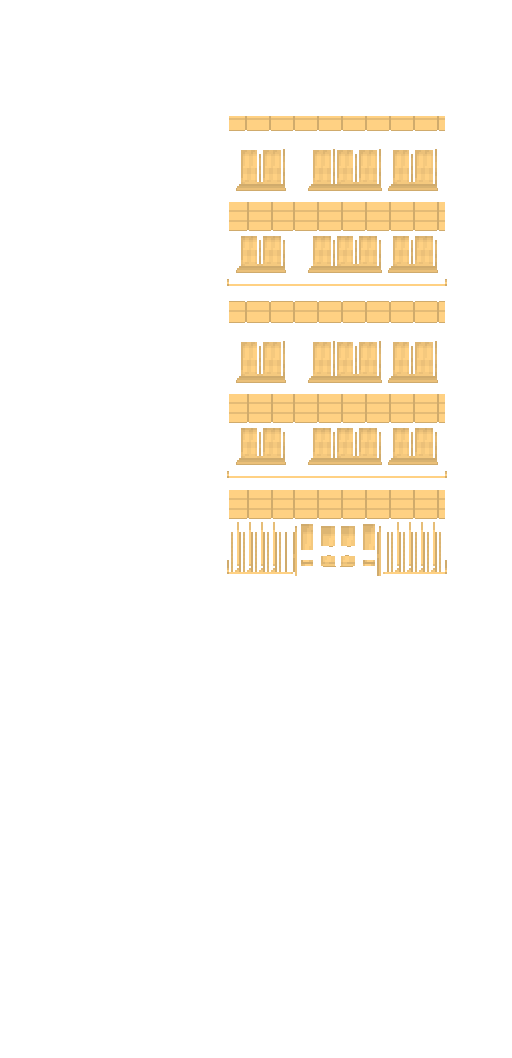
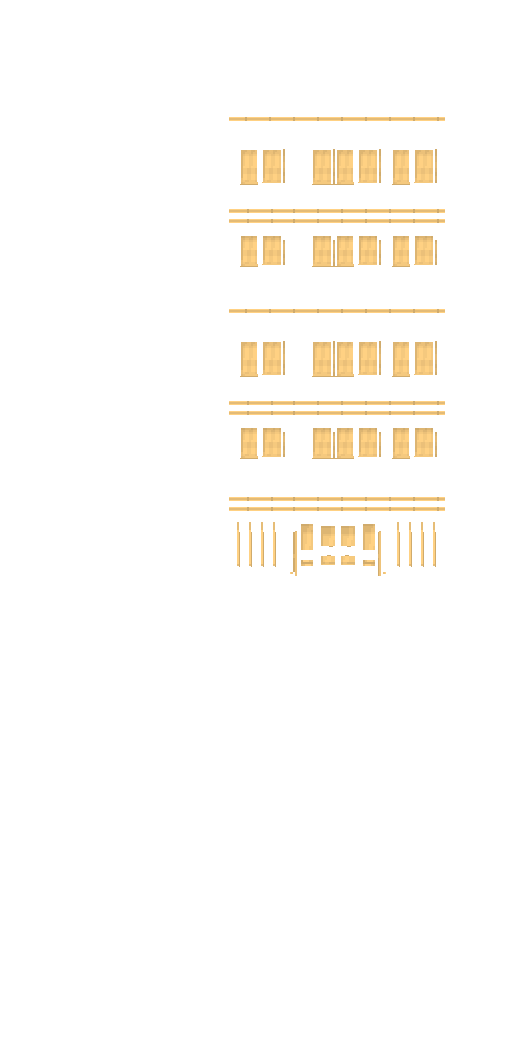
Red-brick corner blocks: Condo_4_38/39/40, Condo_6, Condo_3_46, Condo_8
Condo_4_38/39 as a wing box plus a chamfered corner (a prism for the roof and three
wall parts wearing the art's chamfer columns let down to a level foot); the
octagonal tower as an eight-face prism; Condo_6 as a block and its one-storey annex;
Condo_3_46 and Condo_8 under a plain flat roof. Stricter glass test for night light.

Claude-Session: https://claude.ai/code/session_013NozTEqze7jz3LdAKrPRz7

diff --git a/kotlin-street/tools/buildings_pack.py b/kotlin-street/tools/buildings_pack.py
@@ -110,6 +110,8 @@ def compose_facade(spec, shop=None, rng=None):
     if kit == 'condo12': return compose_columns(spec, shop)
     if kit == 'condo7': return compose_tower(spec, shop)
     if kit == 'office': return compose_office(spec, shop)
+    if kit.startswith('c4_'): return compose_corner(spec, shop)
+    if kit in ('b3_46', 'b8', 'b6'): return compose_block(spec, shop)
     W = int(spec['widthTiles'])
     seed = zlib.crc32(spec['id'].encode()) + int(spec.get('seed', 0))
     r = np.random.default_rng(seed)
@@ -147,7 +149,7 @@ def compose_facade(spec, shop=None, rng=None):
     return finish(spec, shop, r, front, PARAPET, COPING, roof, door, side, wall_c, ledges)
 
 
-def finish(spec, shop, r, front, P, T, roof, door, side, wall_c, ledges=(), extras=()):
+def finish(spec, shop, r, front, P, T, roof, door, side, wall_c, ledges=(), extras=(), lit=True):
     """The model of a box whose front picture is `front` (its first P rows the parapet's front face: the top floor's
     cornice), under a flat roof made of `roof`'s pictures, wearing `side` (the body's side, already without the parapet rows).
     `ledges` are rows of the front that stand 3 px out of the wall; `extras(at, Y, H, PX)` returns more parts (roof props...)."""
@@ -156,7 +158,7 @@ def finish(spec, shop, r, front, P, T, roof, door, side, wall_c, ledges=(), extr
     at = Atlas(512)
     parts, front_par = apt.flat_roof(at, None, 0, PX, Y, H, DEPTH, T, front_face, roof['back_face'],
                                      (roof['back_top'], roof['front_top'], (roof['left'], roof['right'])))
-    b_panes, b_glow = apt.glass_panes(body)
+    b_panes, b_glow = strict_panes(body) if lit else ([], np.zeros_like(body))
     body_r = at.add(body, b_glow)
     side_r = at.add(np.ascontiguousarray(side))
     parts.insert(0, mbox((2, PX - 2), (0, Y), (0, DEPTH), (roof['colour'], wall_c, shade(wall_c, .8)), ft=body_r, fx=0, tt=at.add(np.ascontiguousarray(roof['floor'][:, 2:PX - 2])), st=side_r, panes=b_panes))
@@ -276,13 +278,188 @@ def compose_office(spec, shop=None):
     rows = column_rows(blocks, [4, 5, 6, 7, 8, 9])
     rows[-96:] = rows[96:192]                                         # (the lobby's foot in the floors' wall, not its curtains' brown)
     win = g(f'Window_{st}_Middle_Modular') if st in (1, 2, 3, 4) else g(f'Building_{st}_Window_Modular')
-    wins = [(win, 192 * i + 40 + off, (.5,), apt.glass_panes(win)[0]) for i in range(n) for off in (0, 96)]
+    wins = [(win, 192 * i + 40 + off, (.5,), strict_panes(win)[0]) for i in range(n) for off in (0, 96)]
     side, _ = apt.side_windows(rows, DEPTH, wins, _rng(spec), tuple(int(v) for v in wall_c) + (255,))
     side[:, :8] = side[:, 8:16]; side[:, -8:] = side[:, -16:-8]
     side = side[P:]
     ledges = [(192 * i + 184, 192 * i + 192) for i in range(n)]
     return finish(spec, shop, _rng(spec), front, P, T, roof, (PX // 2 - 30, PX // 2 + 30), side, wall_c, ledges)
 
+
+# ------------------------------------------------------------------------------------------------ item 4: the red-brick corner blocks
+# Condo_4_38/39 (a four-storey block whose corner is a prism: a chamfer forward from the wing, the entrance bay across, a chamfer
+# back to the end), Condo_4_40 (the octagonal tower, only its front three faces drawn), and Condo_6, Condo_3_46, Condo_8 as one
+# or two boxes. The art draws the roof from above in its top rows (one row per pixel of depth, so those rows give the depth), the
+# front's parapet and cornice below them, then the elevation down to its foot. A chamfered face is drawn sheared (its foot falls
+# or rises one row per two columns, 30 rows over the corner: the plan's depth is that many pixels), so each column is taken
+# level by its own step (as the police station's tower) and the face stands as a `wall` between two plan points.
+CORNERS = {
+    # key: (art, wing x span, prism x span, faces (x0, x1, d0, d1), roof rows, elevation top row, wing foot, door, mirrored)
+    'c4_38': dict(art='Condo_4_38', wing=(0, 320), prism=(320, 510), faces=[(320, 384, 0, -30), (384, 446, -30, -30), (446, 510, -30, 0)],
+                  plan=[(320, 0), (384, -30), (446, -30), (510, 0)], roof=208, foot=543, door=(394, 436)),
+    'c4_39': dict(art='Condo_4_39', wing=(192, 512), prism=(2, 192), faces=[(2, 66, 0, -30), (66, 128, -30, -30), (128, 192, -30, 0)],
+                  plan=[(2, 0), (66, -30), (128, -30), (192, 0)], roof=208, foot=543, door=(76, 118)),
+}
+CLEAN = {'c4_38': [40, 56], 'c4_39': [200, 216]}                 # plain brick columns for the walls' rows
+
+
+def _foot(a, x):
+    return int(np.nonzero(a[:, x, 3] == 255)[0].max())
+
+
+def _level(a, x0, x1, top, E, base, clip=30, sign=1):
+    """The columns x0..x1 of a sheared face let down to a level foot: column x starts `step` rows lower (step = its foot's offset)."""
+    cols = []
+    for x in range(x0, x1):
+        s = int(min(max((_foot(a, x) - base) * sign, 0), clip))
+        cols.append(a[top + s * (1 if sign > 0 else -1):top + s * (1 if sign > 0 else -1) + E, x])
+    return np.ascontiguousarray(np.stack(cols, axis=1))
+
+
+def _wall_rows(img, cols):
+    return column_rows(img, cols)
+
+
+def _brick_side(img, cols, depth, wins, rng, wall_c):
+    side, glow = apt.side_windows(_wall_rows(img, cols), depth, wins, rng, tuple(int(v) for v in wall_c) + (255,))
+    side[:, :4] = side[:, 4:8]; side[:, -4:] = side[:, -8:-4]
+    return side, glow
+
+
+def compose_corner(spec, shop=None):
+    from buildings_civA import prism as mprism
+    from buildings_civB import mwall
+    cfg = CORNERS[spec['kit']] if spec['kit'] in CORNERS else None
+    if spec['kit'] == 'c4_40': return compose_octagon(spec, shop)
+    a = kits.piece('gb', cfg['art']); rng = _rng(spec)
+    R = cfg['roof']; foot = cfg['foot']; E = foot - R; W = 512; D = R
+    w0, w1 = cfg['wing']; p0, p1 = cfg['prism']
+    at = Atlas(512)
+    elev = np.ascontiguousarray(a[R:foot, w0:w1].copy())
+    wall_c = tuple(int(v) for v in elev[200, (CLEAN[spec['kit']][0] - w0)][:3])
+    roof_c = tuple(int(v) for v in np.median(a[40:160, p0 + 20:p0 + 90].reshape(-1, 4), axis=0)[:3])
+    # a window of the front for the sides: its picture, frame and awning (x 62..160 of the wing's elevation), one per storey
+    wx = 62 - w0 if spec['kit'] == 'c4_38' else 252 - w0
+    pic = elev[48:122, wx:wx + 98]
+    wins = [(pic, wy, (.3, .7), strict_panes(pic)[0]) for wy in (48, 138, 228)]
+    side, side_g = _brick_side(elev, [c - w0 for c in CLEAN[spec['kit']]], D, wins, rng, wall_c)
+    side_r = at.add(np.ascontiguousarray(side), side_g)
+    panes, glow = strict_panes(elev)
+    wing = mbox((w0 + (2 if w0 == 0 else 0), w1 - (0 if w0 == 0 else 2)) if False else (w0, w1), (0, E), (0, D), (roof_c, wall_c, shade(wall_c, .8)), ft=at.add(elev, glow), fx=w0,
+                tt=at.add(np.ascontiguousarray(a[0:R, w0:w1])), st=side_r, panes=panes)
+    pr_front = at.add(np.ascontiguousarray(elev[:, :64]))
+    prow = mbox((p0, p1), (0, E), (0, D), (roof_c, wall_c, shade(wall_c, .8)), ft=pr_front, fx=p0, tt=at.add(np.ascontiguousarray(a[0:R, p0:p1])), st=side_r)
+    wedge = mprism(cfg['plan'], (0, E), (roof_c, wall_c, wall_c), tt=at.add(np.ascontiguousarray(a[R:R + 30, p0:p1])), hide=(0, 1, 2, 3))
+    parts = [wing, prow, wedge]
+    for (x0, x1, d0, d1) in cfg['faces']:
+        f = _level(a, x0, x1, R, E, foot)
+        fp, fg = strict_panes(f)
+        w = mwall((x0, x1), (d0, d1), (0, E), wall_c, ft=at.add(f, fg))
+        if fg[..., 3].any(): w['sg'] = True
+        parts.append(w)
+    d0_, d1_ = cfg['door']
+    setback, style, lawn, fence, fence_snow = apt.lot(shop or dict(yard=dict(front=1, style='compact')), rng, W, D, 8, (d0_, d1_, 8), 'paving')
+    model = apt.model_of('apartment', W, setback, style, parts, roof_c, 'home', 'paving', fence, lamp=[(d0_ + d1_) / 2, 90, -33])
+    emis = np.zeros_like(elev); emis[:] = glow
+    return model, at, elev, side, emis, lawn, fence, fence_snow
+
+
+def compose_octagon(spec, shop=None):
+    """Condo_4_40: the octagonal tower: the front three faces from the art (the chamfers let down to a level foot), the other
+    five a brick wall with the front's windows, an octagon roof from above on top."""
+    from buildings_civA import prism as mprism
+    from buildings_civB import mwall
+    a = kits.piece('gb', 'Condo_4_40'); rng = _rng(spec)
+    R, base = 172, 507; E = base - R; D = 172
+    at = Atlas(512)
+    roof_c = tuple(int(v) for v in np.median(a[60:140, 70:120].reshape(-1, 4), axis=0)[:3])
+    wall_c = tuple(int(v) for v in a[300, 100][:3])
+    plan = [(64, 0), (128, 0), (190, 30), (190, 142), (128, 172), (64, 172), (2, 142), (2, 30)]
+    faces = []
+    mid = np.ascontiguousarray(a[R:base, 64:128])
+    left = _level(a, 2, 64, R, E, base, sign=-1)
+    right = _level(a, 128, 190, R, E, base, sign=-1)
+    # (the chamfers' source rows run up, not down: the far end of a chamfer is higher)
+    left = np.ascontiguousarray(np.stack([a[R - int(min(max(base - _foot(a, x), 0), 30)):R - int(min(max(base - _foot(a, x), 0), 30)) + E, x] for x in range(2, 64)], axis=1))
+    right = np.ascontiguousarray(np.stack([a[R - int(min(max(base - _foot(a, x), 0), 30)):R - int(min(max(base - _foot(a, x), 0), 30)) + E, x] for x in range(128, 190)], axis=1))
+    pic = right[40:110, 8:54]
+    wins = [(pic, wy, (.5,), strict_panes(pic)[0]) for wy in (60, 150, 240)]
+    sideA, sideG = _brick_side(mid, [2, 3, 4, 5], 112, wins, rng, wall_c)
+    sideB, sideBG = _brick_side(mid, [2, 3, 4, 5], 64, [], rng, wall_c)
+    parts = [mprism(plan, (0, E), (roof_c, wall_c, wall_c), tt=at.add(np.ascontiguousarray(a[0:R, 2:190])), hide=tuple(range(8)))]
+    pics = [mid, right, sideA, sideB, sideB, sideB, sideA, left]
+    for i in range(8):
+        (x0, d0), (x1, d1) = plan[i], plan[(i + 1) % 8]
+        fp, fg = strict_panes(pics[i])
+        w = mwall((x0, x1), (d0, d1), (0, E), wall_c, ft=at.add(np.ascontiguousarray(pics[i]), fg if i in (0, 1, 7) else (sideG if pics[i] is sideA else None)))
+        if (i in (0, 1, 7) and fg[..., 3].any()) or pics[i] is sideA: w['sg'] = True
+        parts.append(w)
+    setback, style, lawn, fence, fence_snow = apt.lot(shop or dict(yard=dict(front=1, style='compact')), rng, 192, D, 8, (72, 120, 8), 'paving')
+    model = apt.model_of('apartment', 192, setback, style, parts, roof_c, 'home', 'paving', fence, lamp=[96, 90, -3])
+    return model, at, mid, sideA, np.zeros_like(mid), lawn, fence, fence_snow
+
+
+def strict_panes(pic, least=330):
+    """The panes of a picture and where they glow, from clear blue glass only (the stone's lilac shades pass for glass by
+    the shops' rule and would light the whole facade): blue clearly over red and over green."""
+    a = pic.astype(int); r, g, b, al = (a[..., i] for i in range(4))
+    m = (al > 200) & (b > r + 30) & (b > g + 6) & ((r + g + b) / 3 > 120)
+    boxes = [(int(x0), int(y0), int(x1 - x0 + 1), int(y1 - y0 + 1), 1) for (x0, y0, x1, y1) in mb.components(mb.dilate(m, 1), 30)]
+    return mb.hand_panes(pic, boxes, least)
+
+
+def plain_roof(art, cop, face, floor_rows, PX, T, P, rng):
+    """A roof of plain pieces: the coping and the parapet's inner face in the art's colours (medians of the given
+    (rows, cols) boxes), a gravel floor in the median of its box, side copings."""
+    med = lambda box: tuple(int(v) for v in np.median(art[box[0]:box[1], box[2]:box[3]].reshape(-1, 4), axis=0)[:3])
+    c, f, g = med(cop), med(face), med(floor_rows)
+    full = lambda col, h, w: np.dstack([np.full((h, w, 3), col, np.uint8), np.full((h, w, 1), 255, np.uint8)])
+    floor = full(g, DEPTH, PX); floor[..., :3] = np.clip(floor[..., :3].astype(int) + rng.integers(-9, 10, (DEPTH, PX, 1)), 0, 255)
+    return dict(back_top=full(c, T, PX), back_face=full(f, P, PX), front_top=full(c, T, PX), floor=floor,
+                left=full(c, DEPTH - 2 * T, T), right=full(c, DEPTH - 2 * T, T), colour=g)
+
+
+def compose_block(spec, shop=None):
+    """Condo_3_46 (five storeys) and Condo_8 (the fire-escape tower): the elevation under a plain flat roof (their roofs are drawn
+    with props and a stepped parapet: the props are not built), Condo_6 as two boxes (the block and its one-storey annex with its flat roof)."""
+    k = spec['kit']; rng = _rng(spec)
+    if k == 'b6': return compose_b6(spec, shop)
+    if k == 'b3_46':
+        a = kits.piece('gb', 'Condo_3_46'); PX = 224; P, T = 12, 10
+        front = np.ascontiguousarray(a[178:570].copy())
+        roof = plain_roof(a, (22, 28, 40, 180), (32, 38, 40, 180), (44, 160, 4, 220), PX, T, P, rng)
+        wall_c = tuple(int(v) for v in a[330, 10][:3]); door = (92, 132); side = _side_of(front[P:])
+    else:
+        a = kits.piece('gb', 'Condo_8'); PX = 160; P, T = 12, 8
+        front = np.ascontiguousarray(a[164:502].copy())
+        roof = plain_roof(a, (31, 35, 20, 140), (37, 39, 20, 140), (70, 150, 40, 120), PX, T, P, rng)
+        wall_c = tuple(int(v) for v in a[300, 10][:3]); door = (50, 110)
+        side = apt.side_windows(column_rows(front[P:], [140, 141, 142, 143, 144]), DEPTH, [], rng, wall_c + (255,))[0]
+        side[:, :4] = side[:, 4:8]; side[:, -4:] = side[:, -8:-4]
+    return finish(spec, shop, rng, front, P, T, roof, door, side, wall_c, lit=(k != 'b8'))
+
+
+def compose_b6(spec, shop=None):
+    """Condo_6: the four-storey block (arched windows) and, in front of its right part, the one-storey annex whose flat roof (the
+    art's, from above, with its air-conditioning vents) stands level with the ground floor's top."""
+    a = kits.piece('gb', 'Condo_6'); rng = _rng(spec); at = Atlas(512)
+    R, G, GF = 236, 510, 394
+    E = G - R; Ha = G - GF
+    wall_c = tuple(int(v) for v in a[300, 12][:3]); roof_c = tuple(int(v) for v in np.median(a[100:200, 40:160].reshape(-1, 4), axis=0)[:3])
+    main = np.ascontiguousarray(a[R:G, 6:208].copy()); annex = np.ascontiguousarray(a[GF:G, 208:400].copy())
+    pm, gm = strict_panes(main); pa, ga = strict_panes(annex)
+    rows = column_rows(main, [188, 189, 190, 191])
+    side, side_g = apt.side_windows(rows, 206, [], rng, wall_c + (255,)); side[:, :4] = side[:, 4:8]; side[:, -4:] = side[:, -8:-4]
+    side_r = at.add(np.ascontiguousarray(side))
+    roof_a = at.add(np.ascontiguousarray(a[254:394, 208:400]))
+    parts = [
+        mbox((6, 208), (0, E), (0, 206), (roof_c, wall_c, shade(wall_c, .8)), ft=at.add(main, gm), fx=6, tt=at.add(np.ascontiguousarray(a[34:R, 6:208])), st=side_r, panes=pm),
+        mbox((208, 400), (0, Ha), (0, 140), (roof_c, wall_c, shade(wall_c, .8)), ft=at.add(annex, ga), fx=208, tt=roof_a, st=side_r, panes=pa),
+    ]
+    setback, style, lawn, fence, fence_snow = apt.lot(shop or dict(yard=dict(front=1, style='compact')), rng, 416, 206, 8, (90, 160, 8), 'paving')
+    model = apt.model_of('apartment', 416, setback, style, parts, roof_c, 'home', 'paving', fence, lamp=[125, 70, -3])
+    emis = np.zeros_like(main); emis[:] = gm
+    return model, at, main, side, emis, lawn, fence, fence_snow
 
 KEYS = ('pk_',)
 
@@ -305,6 +482,8 @@ def showcase_specs():
         S('pk_m07', 'brick', 5, 'shop', 6, 'teal', 4), S('pk_m08', 'blue', 4, 'condo', 3, 'gold', 9), S('pk_m09', 'grey', 14, 'shop', 2, 'stone', 6),
         dict(id='pk_c7a', kit='condo7', widthTiles=3, floors=3, seed=1), dict(id='pk_c7b', kit='condo7', widthTiles=3, floors=5, seed=4),
         dict(id='pk_o1a', kit='office', style=1, mid=1, blocks=2), dict(id='pk_o2a', kit='office', style=2, mid=2, blocks=3),
+        dict(id='pk_b38', kit='c4_38', widthTiles=16), dict(id='pk_b39', kit='c4_39', widthTiles=16), dict(id='pk_b40', kit='c4_40', widthTiles=6),
+        dict(id='pk_b346', kit='b3_46', widthTiles=7), dict(id='pk_b8', kit='b8', widthTiles=5), dict(id='pk_b6', kit='b6', widthTiles=13),
         dict(id='pk_c1a', kit='condo12', widthTiles=6, colour=1, height='tall', columns=[1, 3, 4, 5, 2]),
         dict(id='pk_c1b', kit='condo12', widthTiles=8, colour=2, height='short', columns=[6, 9, 8, 10, 7]),
     ]
@@ -326,6 +505,6 @@ def showcase(out):
         scale.append(sp)
     os.makedirs(out + '/buildings', exist_ok=True)
     json.dump(dict(town='pack', year=2025, type='pack showcase', shops=shops,
-                   streets=[dict(name='Facade kit', buildings=names[:5]), dict(name='Facade kit 2', buildings=names[5:9]), dict(name='Towers and terraces', buildings=names[9:]), dict(name='Scale against the game\'s own', buildings=scale)]),
+                   streets=[dict(name='Facade kit', buildings=names[:5]), dict(name='Facade kit 2', buildings=names[5:9]), dict(name='Towers and terraces', buildings=[n for n in names[9:] if not n.startswith(('pk_b', 'pk_k'))]), dict(name='Red-brick corners and blocks', buildings=[n for n in names if n.startswith(('pk_b', 'pk_k'))]), dict(name='Scale against the game\'s own', buildings=scale)]),
               open(out + '/street.json', 'w'), indent=1)
     return out + '/street.json', out + '/buildings'

diff --git a/kotlin-street/docs/PACK_EXTERIORS.md b/kotlin-street/docs/PACK_EXTERIORS.md
@@ -392,6 +392,26 @@ What the trial showed, against the audit's guesses:
   per-floor window-light randomisation, the generator hook (`tools/town-buildings.ts` emitting `modular` specs; the spec format is
   `compose_facade`'s).
 
+## Built (2026-11-19): the red-brick corner blocks and the apartment variants, item 4 of the build order
+
+`compose_corner`, `compose_octagon`, `compose_block`, `compose_b6` in `tools/buildings_pack.py` (specs `kit: c4_38 | c4_39 | c4_40 | b3_46 | b8 | b6`,
+in the pack showcase street 3; `final/item4_*`).
+- **Condo_4_38/39**: a wing box (the elevation from the art's front parapet down to the foot, the art's roof from above as its top), a back box behind
+  the corner, and the corner as a prism (a wedge on the plan: chamfer forward from the wing, the entrance bay across, a chamfer back to the end wall) whose three
+  faces are `wall` parts. 39 is 38 mirrored in the pack and is built from its own art with the plan mirrored. The art draws a chamfer sheared (its foot
+  falls one row per two columns, 30 rows over the corner), so each column is let down by its own step (as the police tower), and the 30 rows are the
+  corner's depth in pixels (the roof's rows are one per pixel of depth: the roof's notch is the same 30 rows deep, which checked the scale). Plan: wing 208 deep, corner 30 forward.
+- **Condo_4_40**: an octagonal prism, the front three faces from the art (the chamfers' far ends are higher: columns taken up), the other five a brick wall
+  with the chamfer's window, the octagon roof from above as its top.
+- **Condo_3_46** (five storeys, same family as 3_44/45) and **Condo_8**: the elevation under a plain flat roof from the shared parapet code. Their roofs in the art carry
+  dishes, a AC unit and a stepped parapet: not built (the floor would show them flat); Condo_8's fire-escape balconies are still drawn flat on the front, and its
+  few panes are not lit (the steel passed for glass). **Condo_6**: two boxes, the four-storey block and the one-storey annex whose flat roof is the art's (vents
+  included); the stepped rooftop room with the door and the AC units are not built; its sides are plain grey.
+- Night light: the stone's lilac shades pass for glass by the shops' colour rule and lit whole facades, so the new kits find panes with a stricter blue test
+  (`strict_panes`).
+- Still to do: real coping and parapet boxes along the corner prism (the roof's coping is painted flat there), balconies and fire escapes as geometry
+  (Condo_8), roof props, a `wall` shear check at the corner's join with the wing under a low sun.
+
 ## Honest limits of this audit
 - Done by reading the file names and sizes of all 6 222 singles and looking at contact sheets of the buildings, the modular sets and every important theme;
   props themes (garden 570, camping 693, beach, military) were inspected by name and size, not sprite by sprite.

diff --git a/kotlin-street/docs/SPRITES_3D.md b/kotlin-street/docs/SPRITES_3D.md
@@ -498,3 +498,7 @@ pipeline: `compose_facade(spec)` writes the usual models.json boxes (a body wear
 `pk_*` sprites through `build_model`. Details, the kit format and what the trial corrected: `PACK_EXTERIORS.md` ("Built"). Filament renders:
 `-Dmode=filament-models -Dassets=DIR -Dstreet=0-3` after `make_buildings.py --pack-showcase DIR` (street 3 is the scale street). Output for the
 showcase lives in `app/src/main/assets/pack/` (`tools/pack-export.sh`). Not on a town street yet.
+
+Red-brick corner blocks (Condo_4_38/39/40, Condo_6, Condo_3_46, Condo_8): same file, `compose_corner` and friends, showcase street 3 (street 4 is the scale street). The
+chamfered corner is a `prism` (roof top only, faces hidden) plus three `wall` parts wearing the art's chamfer columns let down to a level foot; see
+`PACK_EXTERIORS.md` ("Built ... item 4").
